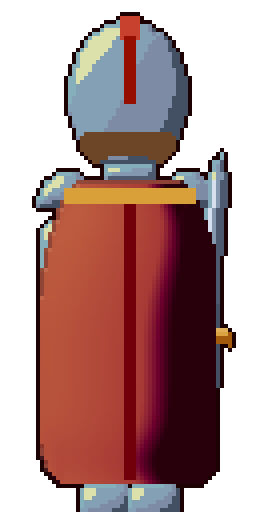
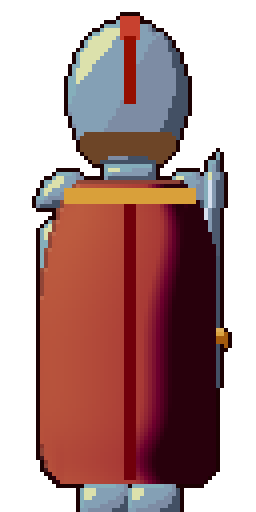
fix: mirror pins about (w-1)/2, not w -- correct the back-view arithmetic
The mirroring fixes in 615be5a/761347d were each one pixel too far. The
engine mirrors about cx = (w-1)/2 (src/eval.ts #buildStampMatrix, the
same axis `flipx` uses), so the mirror of column x is w-1-x, not w-x.

- knight bodyBack.grip 42:52 -> 41:52, knightBack aim 55:34 -> 54:34
- starter bodyBack.grip 41:52 -> 40:52, heroBack aim 52:16 -> 51:16
- character-craft.md stated the wrong formula with worked numbers, which
  is worse than stating none: every agent copying the guide would have
  inherited the same 1px error. Now `w - 1 - x`, named as the axis flipx
  mirrors about.

Measured, not reasoned: knight-front ink spans x=6..55 on a 64-wide
canvas, so an exact mirror is 63-55=8 .. 63-6=57. With the old 42 the
back view measured x=8..58; with 41 it measures x=8..57 -- the exact
mirror. The wizard fix needed no change: swapping gripL to gripR uses
pins the recipe already declares, with no arithmetic involved.

Found by building the candidate lint for this defect class and running it
against the pre-fix recipes -- it reported the expected coordinate and
disagreed with mine. Gates unchanged (check --lint [], critique --as
character --strict pass:true, 965 tests). Hero image regenerated.

Changed region(s): [[0.7812, 0.2812, 0.9062, 0.5], [0.875, 0.625, 0.9375, 0.6875]]

diff --git a/skills/drawstic/character-craft.md b/skills/drawstic/character-craft.md
@@ -163,8 +163,9 @@ mirrored copy of one draw — `flipx`/`flipy` only swap left/right *within* one 
 - **Front and back mirror left↔right at the shoulder/hip attach**, not the part itself: reuse the
   identical arm part and swap which pin it fits to (`armA.shoulder → torso.shoulderL` in front becomes
   `→ torso.shoulderR` in back). When the body is one draw rather than separate limbs, the same rule is
-  a **mirrored pin coordinate** — `pin grip 7:52` in a 48-wide front body becomes `pin grip 41:52`
-  (`48 - 7`) in the back body, and the `aim` target mirrors with it (`12:16` → `52:16` on a 64-wide
+  a **mirrored pin coordinate** — `pin grip 7:52` in a 48-wide front body becomes `pin grip 40:52`
+  (`w - 1 - x`, the same axis `flipx` mirrors about), and the `aim` target mirrors with it
+  (`12:16` → `51:16` on a 64-wide
   canvas). Copying the front pin verbatim is the classic back-view bug: the prop stays on the viewer's
   left, so the character silently swaps hands between views. This also collapses `critique`'s `C009` sibling-silhouette check by
   construction for a subject's own views — it never fires between `…Front`/`…Side`/`…Back` of one name
